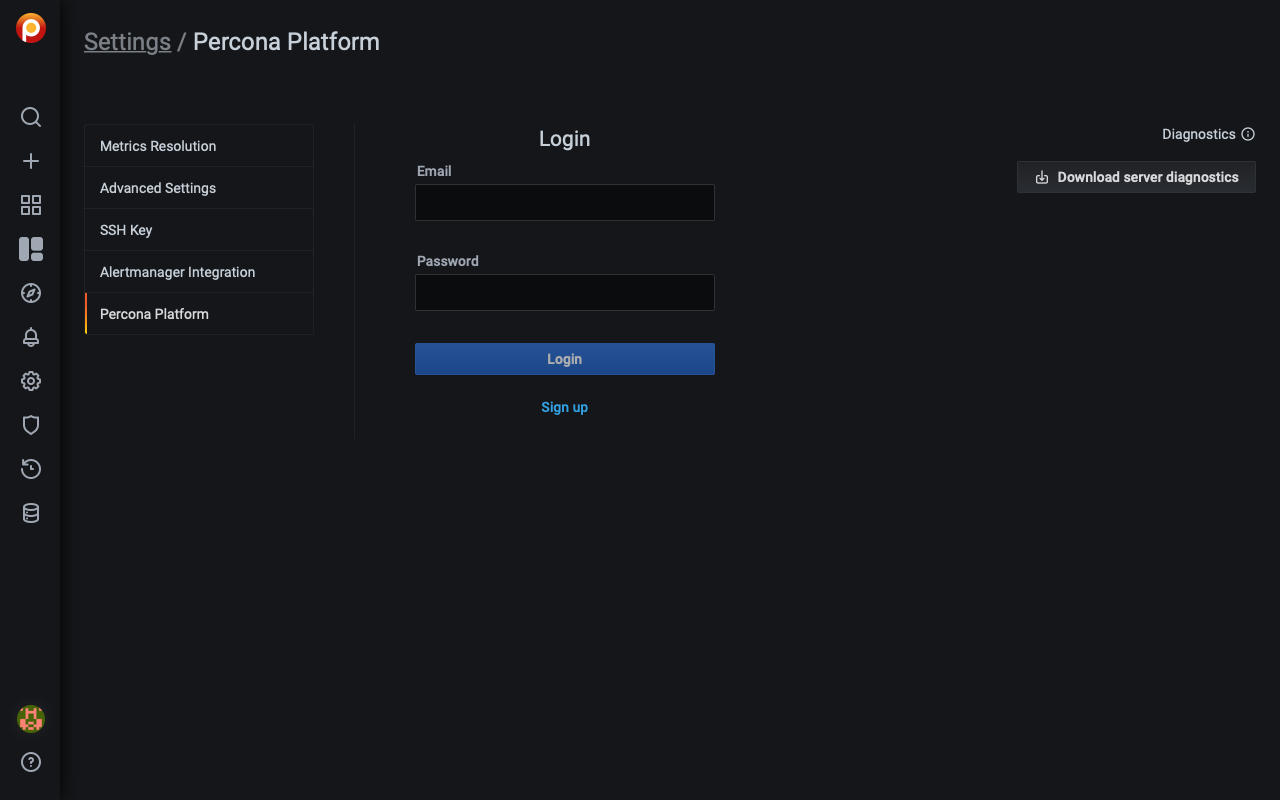
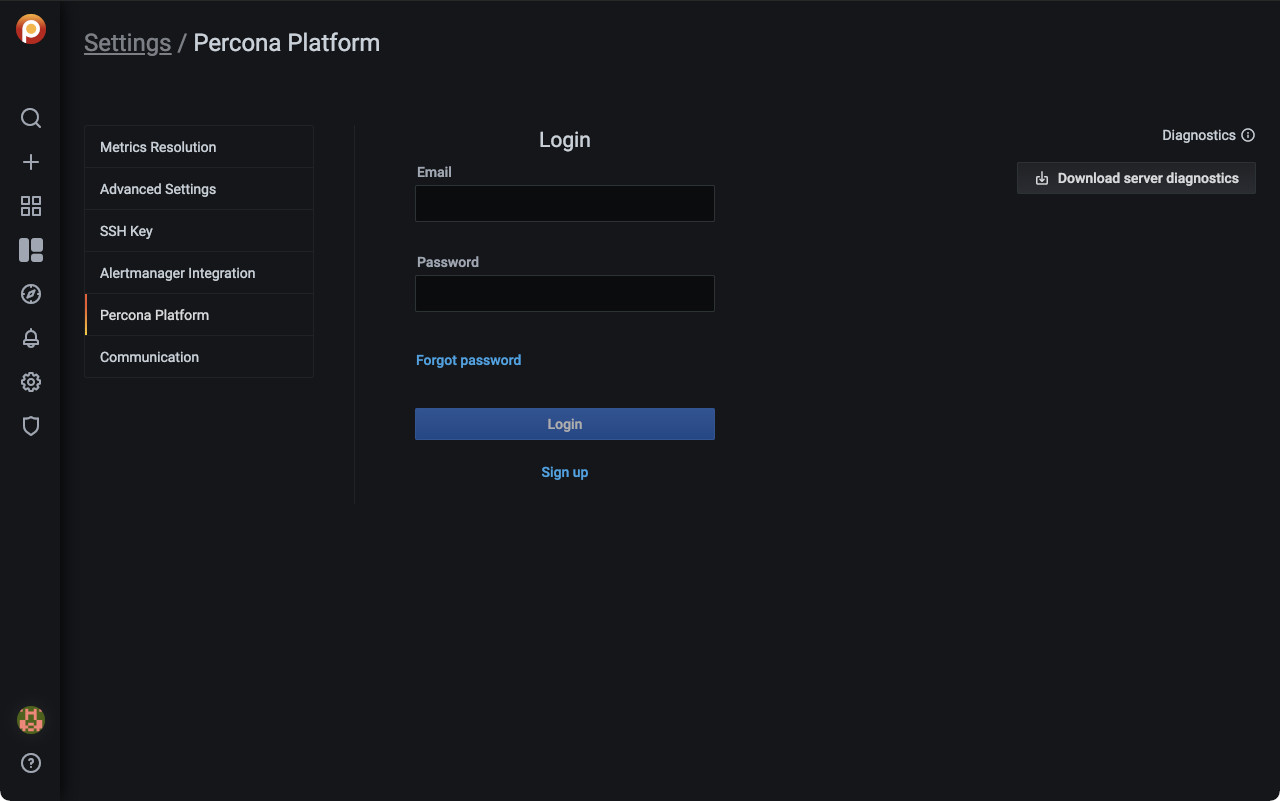
PMM-537 update documentation for password reset (#473)
* PMM-537 update documentation for password reset

* PMM-537 fix typo

* SAAS-537 update a title

* SAAS-537 make link clickable

* SAAS-537 update password reset images

diff --git a/docs/how-to/configure.md b/docs/how-to/configure.md
@@ -8,12 +8,29 @@ Open the *Settings* page from the [main menu](../details/interface.md#main-menu)
 
 On the left are the selector tabs:
 
-- [Metrics Resolution](#metrics-resolution)
-- [Advanced Settings](#advanced-settings)
-- [SSH Key](#ssh-key)
-- [Alertmanager Integration](#alertmanager-integration)
-- [Percona Platform](#percona-platform)
-- [Communication](#communication) (This tab remains hidden until [Integrated Alerting](#integrated-alerting) is activated in the *Advanced Settings* tab.)
+- [Configure](#configure)
+  - [Metrics resolution](#metrics-resolution)
+  - [Advanced Settings](#advanced-settings)
+    - [Data Retention](#data-retention)
+    - [Telemetry](#telemetry)
+    - [Check for updates](#check-for-updates)
+    - [Security Threat Tool](#security-threat-tool)
+  - [Public address](#public-address)
+    - [DBaaS](#dbaas)
+    - [Integrated Alerting](#integrated-alerting)
+    - [Microsoft Azure Monitoring](#microsoft-azure-monitoring)
+    - [Public Address](#public-address-1)
+  - [SSH Key](#ssh-key)
+  - [Alertmanager integration](#alertmanager-integration)
+  - [Percona Platform](#percona-platform)
+    - [Login](#login)
+    - [Sign up](#sign-up)
+    - [Password Reset](#password-reset)
+      - [Password Forgotten](#password-forgotten)
+      - [Change Password after Login](#change-password-after-login)
+  - [Communication](#communication)
+    - [Email](#email)
+    - [Slack](#slack)
 
 > <b style="color:goldenrod">Important</b> Click *Apply changes* to save any changes made here.
 
@@ -195,6 +212,28 @@ To create a *Percona Platform* account:
 A brief message will confirm the creation of your new account and you may now log in with these credentials.
 
 > Your Percona Platform account is separate from your PMM User account.
+
+### Password Reset
+
+#### Password Forgotten
+
+In case you forgot your password, click on the *Forgot password* link in the login page.
+
+You will be redirected to a password reset page. Enter the email you are registered with in the field and click on *Reset via Email*.
+
+![image](../_images/PMM_Settings_Percona_Platform_Password_Reset.jpg)
+
+An email with a link to reset your password will be sent to you.
+
+#### Change Password after Login
+
+If you did not forget your password but you still want to change it, go to <https://okta.percona.com/enduser/settings> (make sure you are logged in).
+
+![image](../_images/PMM_Settings_Percona_Platform_Password_Reset_Okta.jpg)
+
+Insert you current password and the new password in the form to the bottom right of the page. If you cannot see the form, you will need to click on the *Edit Profile* green button (you will be prompted for you password).
+
+Click on *Change Password*. If everything goes well, you will see a confirmation message.
 
 ## Communication
 
